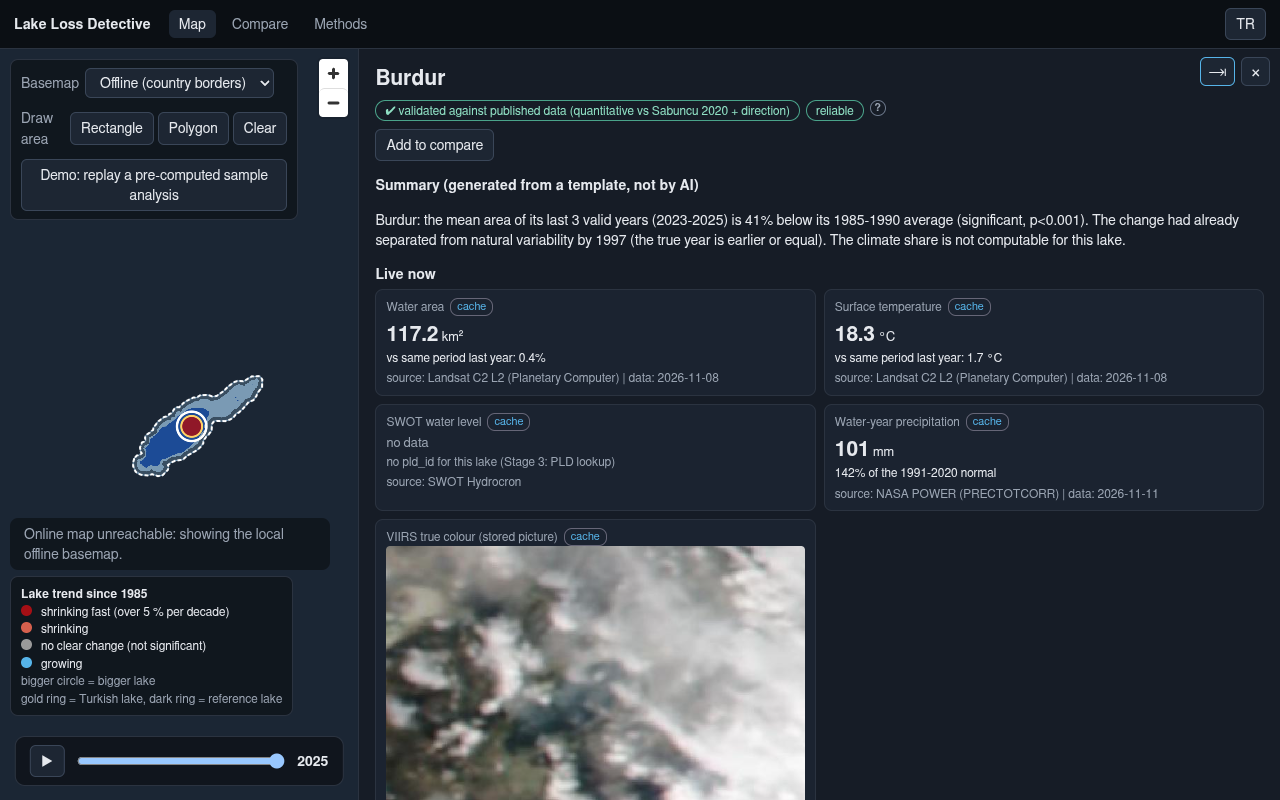
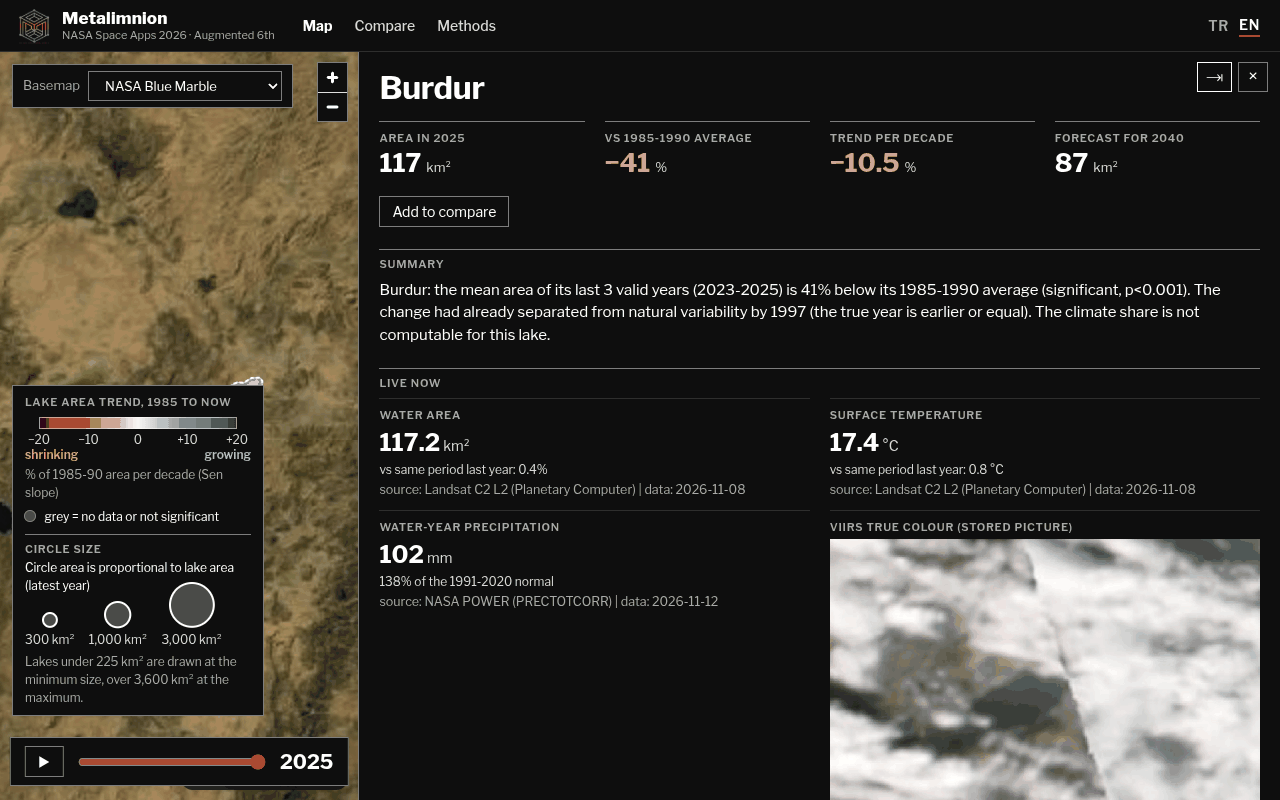
fix: regenerate README screenshots with Metalimnion brand; assert tab and API title

diff --git a/frontend/e2e/app.spec.ts b/frontend/e2e/app.spec.ts
@@ -116,6 +116,7 @@ test("top bar: brand, nav with aria-current, TR/EN switch, no overflow at 390 px
   await expect(page.getByRole("heading", { name: /limitations/i })).toHaveCount(0);
   expect(await page.locator(".brand-name").evaluate((e) => getComputedStyle(e).textTransform)).toBe("none");
   await expect(page.locator(".brand-name")).toHaveText("Metalimnion");
+  await expect(page).toHaveTitle("Metalimnion");
   expect(await nav.getByRole("link", { name: "Methods" }).evaluate((e) => getComputedStyle(e).borderBottomWidth)).toBe("0px");
   await expect(nav.getByRole("link", { name: "Map" })).not.toHaveAttribute("aria-current", "page");
   expect((await page.locator("header.top").boundingBox())!.height).toBeLessThanOrEqual(60);

diff --git a/backend/tests/test_api_and_data.py b/backend/tests/test_api_and_data.py
@@ -12,7 +12,9 @@ def test_health_and_docs():
     c = TestClient(app)
     assert c.get("/api/health").json() == {"status": "ok"}
     assert c.get("/docs").status_code == 200
-    assert "/api/health" in c.get("/openapi.json").json()["paths"]
+    spec = c.get("/openapi.json").json()
+    assert "/api/health" in spec["paths"]
+    assert spec["info"]["title"] == "Metalimnion API"
 
 
 def power_monthly_fixture():

diff --git a/README.md b/README.md
@@ -14,8 +14,7 @@ predict. The part that climate does not explain is a **sign, not proof**, of hum
 ![Burdur panel](docs/screenshots/map-burdur-panel.png)
 ![Compare](docs/screenshots/compare.png)
 
-(Screenshots were taken at the end of Stage 6; Stage 7 added the offline basemap, sample-job button and lazy loading
-but did not change the main layouts. They were not regenerated in Stage 8.)
+(Screenshots regenerated 2026-11-15 from the current build with `frontend/e2e/screenshots.mjs`, real basemap tiles.)
 
 ## What is in it
 - 4 Turkish lakes with full 1985-2025 records (Burdur, Akşehir, Eğirdir, Van) and 13 global reference lakes (Urmia, Aral
